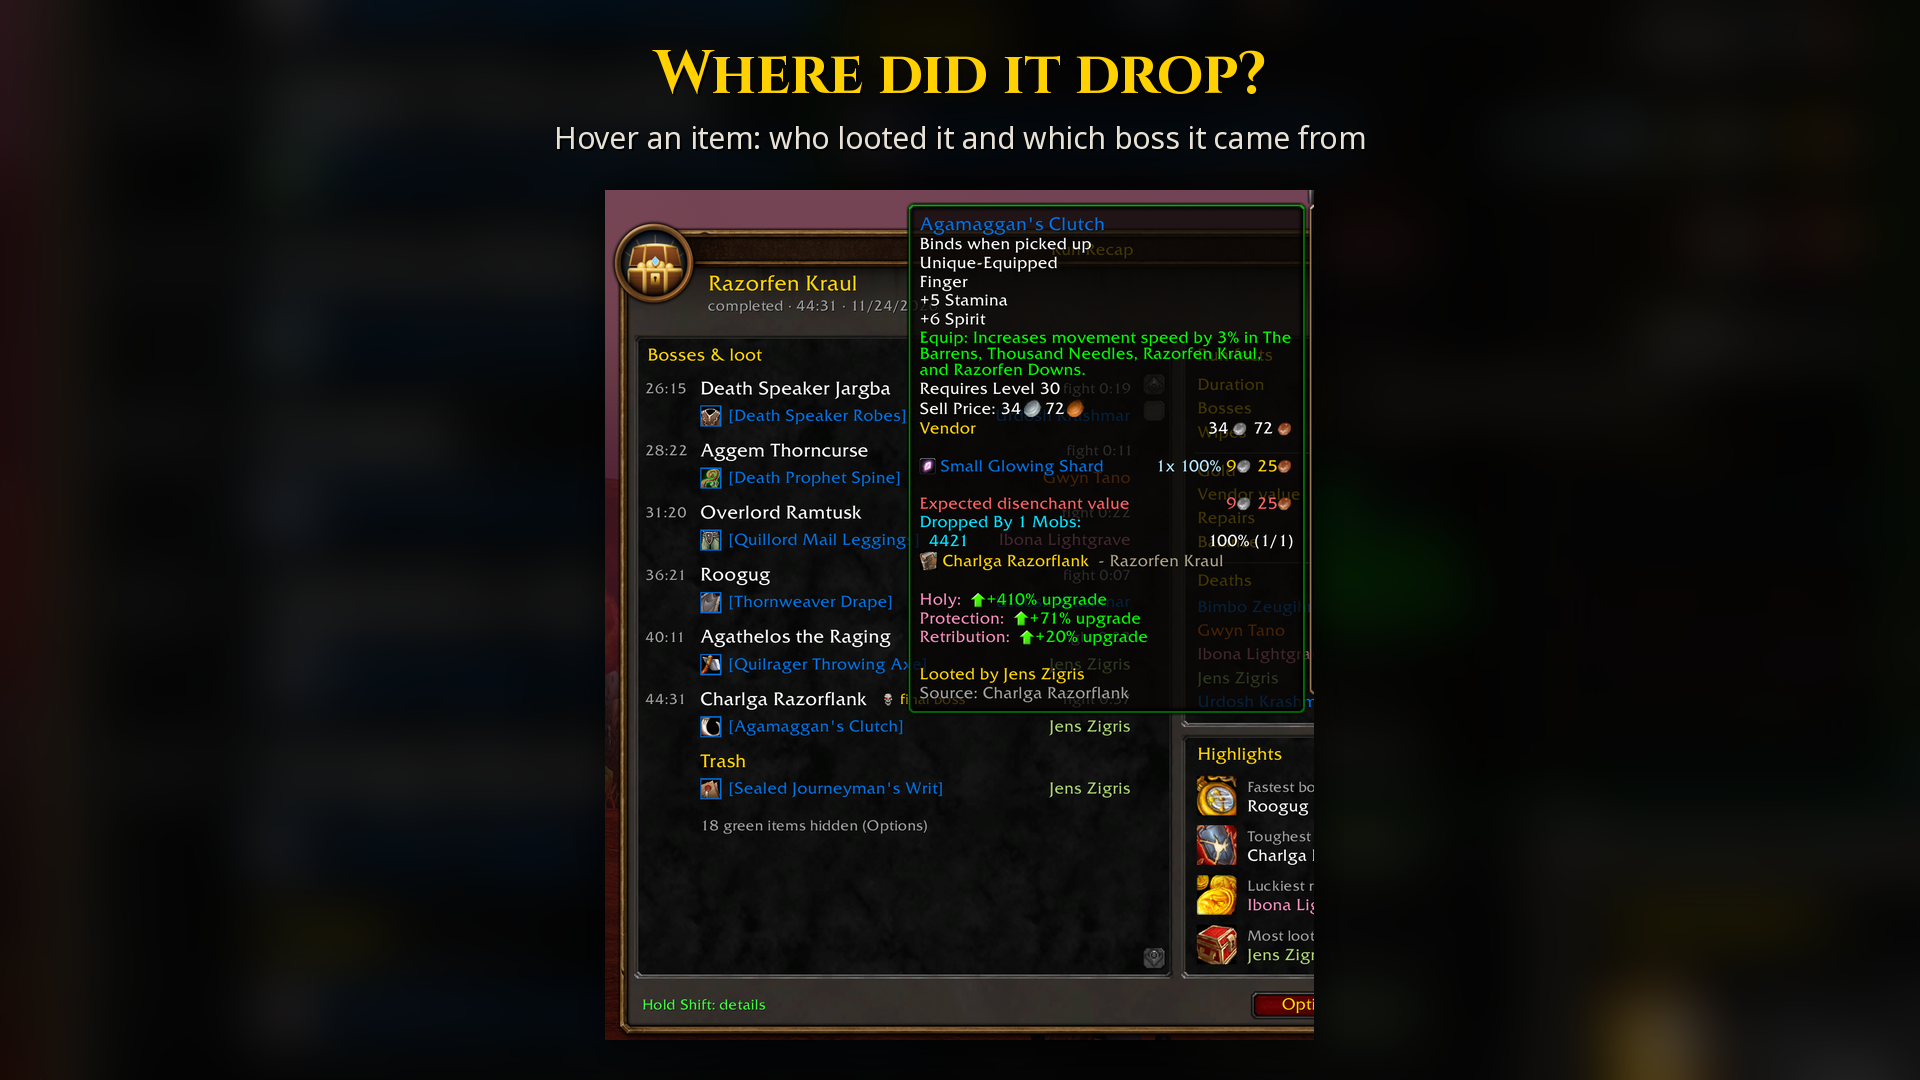
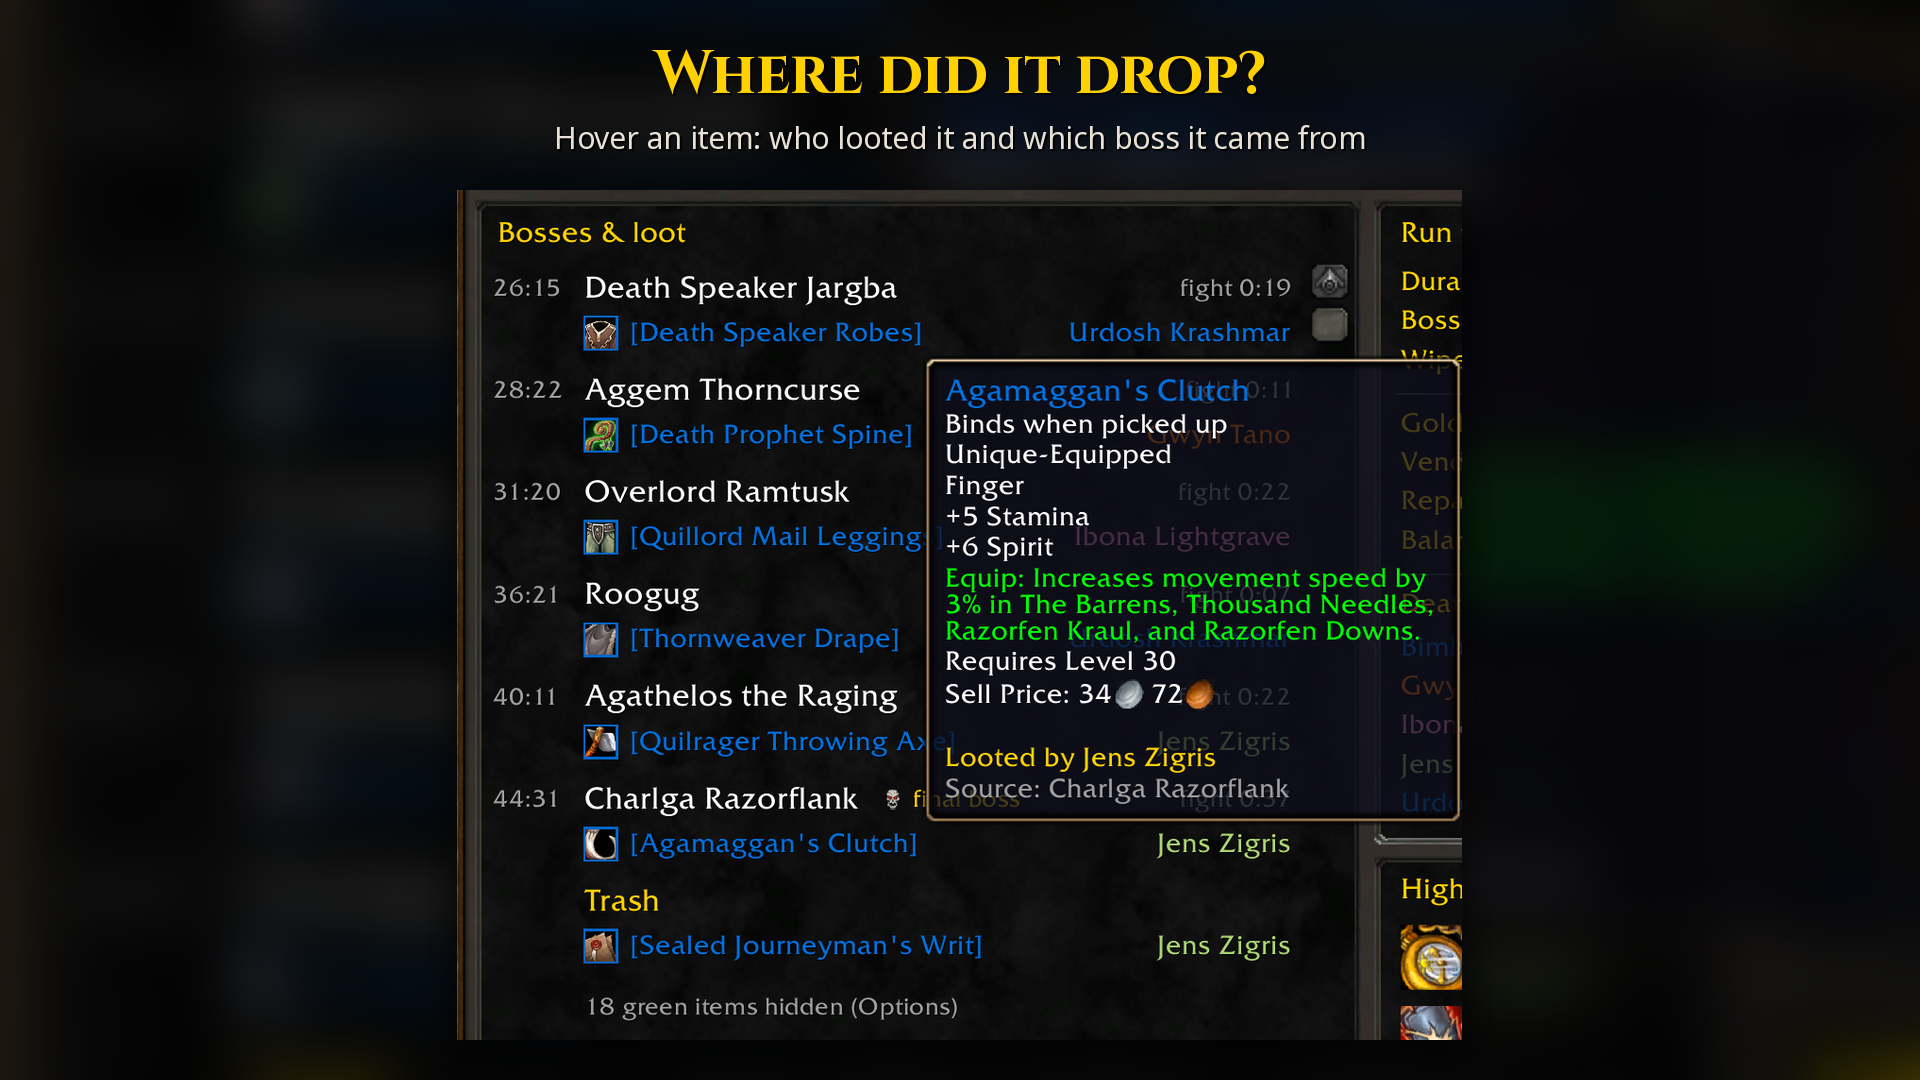
Gallery: item tooltip image without other addons' lines
Claude-Session: https://claude.ai/code/session_01FpqjXk14Vv5TA8Ve8xhCmU

diff --git a/tools/make_gallery.py b/tools/make_gallery.py
@@ -55,7 +55,7 @@ img.save("/home/claude/gallery/1-banner.png", optimize=True)
 
 slide("2-recap", "693f4d72-image.png", None, "Every boss. Every drop.",
       "Kill time, fight length and who got what – plus your gold, deaths and highlights")
-slide("3-item", "3011cc19-image.png", (60, 40, 1295, 1520), "Where did it drop?",
+slide("3-item", "10f4cccd-image.png", (40, 200, 1105, 1100), "Where did it drop?",
       "Hover an item: who looted it and which boss it came from")
 slide("4-rolls", "a3aefdff-image.png", (95, 235, 1640, 940), "Every roll",
       "Hold Shift on a looter to see need, greed and every number")
